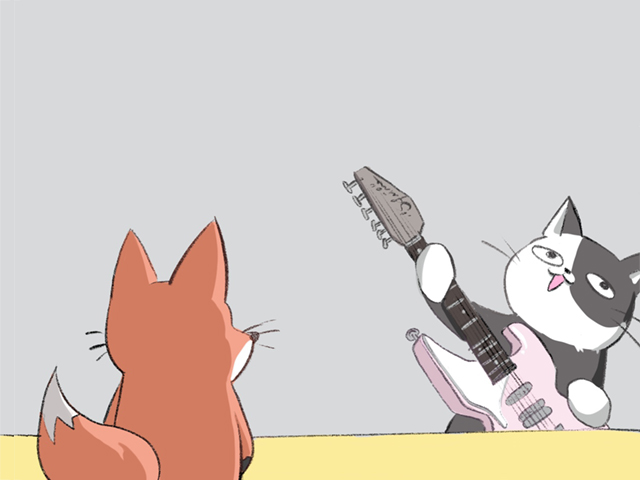
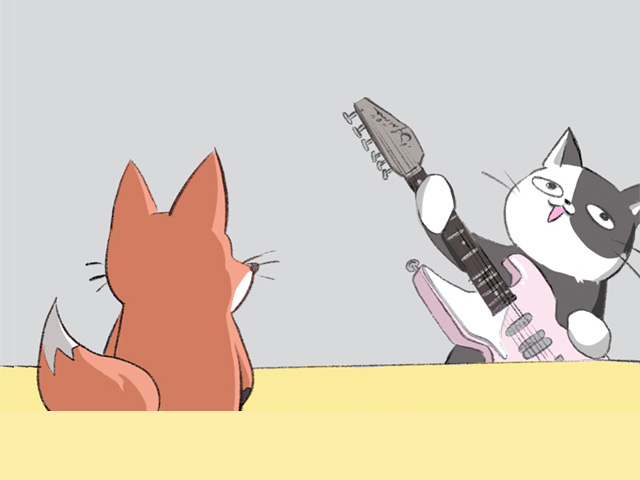
1213_2159
- 초기화 로직 보강 (각 게임 점수들까지 다 초기화되도록 변경)
- 겹쳐서 나는 목소리 수정
- 멤버 소개 에셋 변경
- 대사창 높이에 맞춰 씬컷 일부 수정

diff --git a/sketch.js b/sketch.js
@@ -30,6 +30,7 @@ let bassCapy; //카피바라 이미지
 let keyboardRabbit; //토끼 이미지
 let guitarCat; //고양이 이미지
 let backgroundImage; //기본 배경
+let everyone;
 
 //대사창 파일
 let dialogueFox;
@@ -124,6 +125,7 @@ function preload() {
   keyboardEx = loadImage("assets/keyboardEx.png");
   bassEx = loadImage("assets/bassEx.png");
   guitarEx = loadImage("assets/guitarEx.png");
+  everyone = loadImage("assets/everyone.png");
 
   drumPractice = loadImage("assets/drumPractice.png");
   drumPracticeStart = loadImage("assets/drumPracticeStart.png");
@@ -221,12 +223,40 @@ function draw() {
         env.triggerAttack();
         bgmPlaying = true;
       }
-
-      //점수 초기화
-      drumFinal = undefined;
-      bassFinal = undefined;
-      keyboardFinalFinal = undefined;
-      guitarFinal = undefined;
+      if (
+        drumFinal !== undefined &&
+        bassFinal !== undefined &&
+        keyboardFinal !== undefined &&
+        guitarFinal !== undefined
+      ) {
+        //점수 초기화
+        drumFinal = undefined;
+        bassFinal = undefined;
+        keyboardFinal = undefined;
+        guitarFinal = undefined;
+        isInPracticeMode = true;
+        hands = []; // 손 데이터 저장
+        scoreIncrementedRects = []; // 점수 증가 여부 체크 배열
+        pointOfGuitar = 0; // 점수
+        rects = []; // 빨간 네모들의 정보 저장
+        score = 0;
+        level = 1;
+        newLevel = false;
+        _width = 640;
+        _height = 480;
+        piano = [];
+        img = [];
+        timeOK = false;
+        scoreNum = 0;
+        wait = false;
+        notes = [];
+        bassScore = 0;
+        bassLevel = 0;
+        missedNotes = 0; // 놓친 노트 개수
+        retryLevel = 0; // 실패한 레벨을 기억하는 변수
+        drumPracticeStart;
+        drumPracticeComplete;
+      }
 
       sceneChange = true;
 
@@ -283,11 +313,7 @@ function draw() {
         image(vocalFox, 0, 0);
       } else if (currentDialogueIndex == 8) {
         //전체 등장
-        image(drumBear, 120, 0);
-        image(bassCapy, 80, 0);
-        image(guitarCat, 30, 0);
-        image(keyboardRabbit, -30, 0);
-        image(vocalFox, -80, 0);
+        image(everyone, 0, 0);
       } else if (currentDialogueIndex == 13) {
         env.triggerRelease();
       }
@@ -295,7 +321,8 @@ function draw() {
       if (
         currentDialogueIndex > 0 &&
         currentCharIndex % 9 === 0 &&
-        currentCharIndex < dialogues[currentDialogueIndex].length
+        currentCharIndex < dialogues[currentDialogueIndex].length &&
+        keyCode == ENTER
       ) {
         foxVoice.play();
       }
